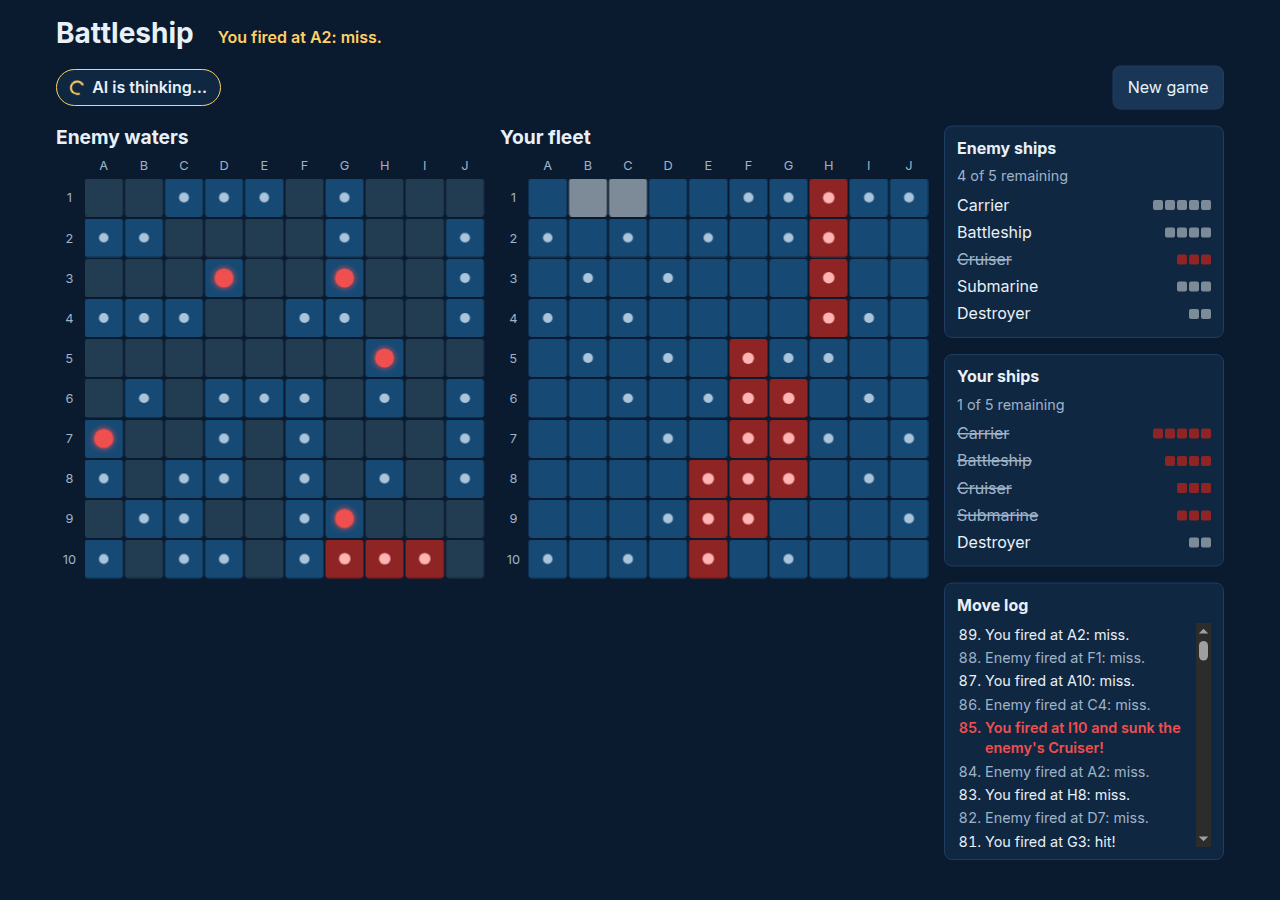
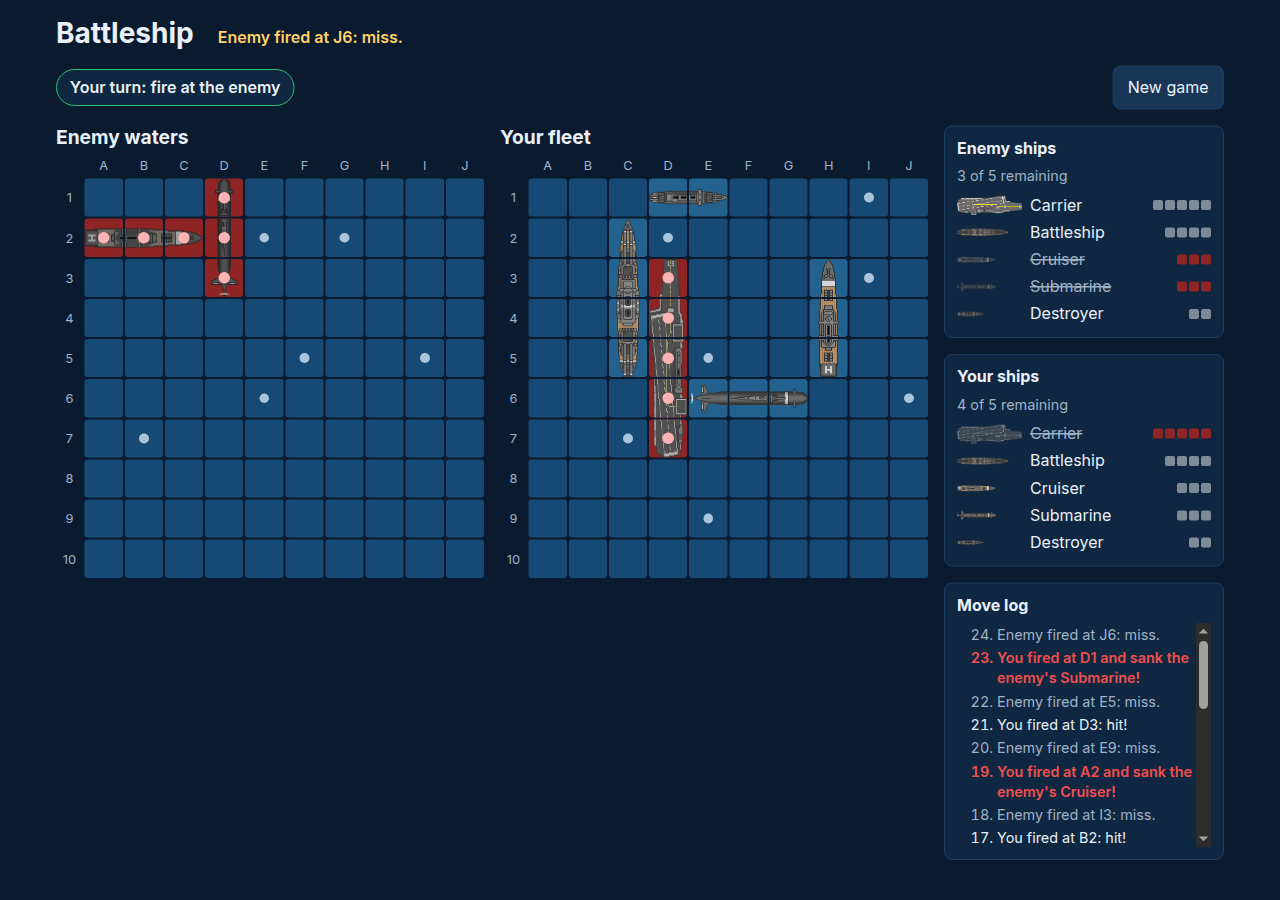
Draw ship images on the boards, tray and status panels
Top-down sprites from the CC0 Sea Warfare set (Lowder2, OpenGameArt),
cropped and rotated per orientation. Enemy ships still appear only once
sunk or at game over.

diff --git a/src/components/shipSprites.ts b/src/components/shipSprites.ts
@@ -1,0 +1,42 @@
+import type { CSSProperties } from 'react';
+import battleshipH from '../assets/ships/battleship-h.png';
+import battleshipV from '../assets/ships/battleship-v.png';
+import carrierH from '../assets/ships/carrier-h.png';
+import carrierV from '../assets/ships/carrier-v.png';
+import cruiserH from '../assets/ships/cruiser-h.png';
+import cruiserV from '../assets/ships/cruiser-v.png';
+import destroyerH from '../assets/ships/destroyer-h.png';
+import destroyerV from '../assets/ships/destroyer-v.png';
+import submarineH from '../assets/ships/submarine-h.png';
+import submarineV from '../assets/ships/submarine-v.png';
+import type { Coord, Ship, ShipType } from '../engine';
+
+interface ShipSprite {
+  readonly horizontal: string;
+  readonly vertical: string;
+  /** Hull width as a fraction of one cell, close to the image's own aspect ratio. */
+  readonly beam: number;
+}
+
+export const SHIP_SPRITES: Readonly<Record<ShipType, ShipSprite>> = {
+  carrier: { horizontal: carrierH, vertical: carrierV, beam: 1 },
+  battleship: { horizontal: battleshipH, vertical: battleshipV, beam: 0.6 },
+  cruiser: { horizontal: cruiserH, vertical: cruiserV, beam: 0.55 },
+  submarine: { horizontal: submarineH, vertical: submarineV, beam: 0.7 },
+  destroyer: { horizontal: destroyerH, vertical: destroyerV, beam: 0.45 },
+};
+
+/** Background for one cell of a ship: the cell shows its slice of the whole hull image. */
+export function shipSpriteStyle(ship: Ship, coord: Coord): CSSProperties {
+  const sprite = SHIP_SPRITES[ship.type];
+  const length = ship.cells.length;
+  const index = ship.cells.findIndex((c) => c.row === coord.row && c.col === coord.col);
+  const along = length > 1 ? (index / (length - 1)) * 100 : 50;
+  const beam = `${sprite.beam * 100}%`;
+  const horizontal = ship.orientation === 'horizontal';
+  return {
+    '--sprite': `url("${horizontal ? sprite.horizontal : sprite.vertical}")`,
+    '--sprite-size': horizontal ? `${length * 100}% ${beam}` : `${beam} ${length * 100}%`,
+    '--sprite-pos': horizontal ? `${along}% 50%` : `50% ${along}%`,
+  } as CSSProperties;
+}

diff --git a/src/components/BattleScreen.tsx b/src/components/BattleScreen.tsx
@@ -4,6 +4,7 @@ import { SHIP_NAMES } from '../game/labels';
 import type { LogEntry } from '../game/state';
 import BoardGrid, { type CellView } from './BoardGrid';
 import MoveLog from './MoveLog';
+import { shipSpriteStyle } from './shipSprites';
 import ShipStatus from './ShipStatus';
 
 interface BattleScreenProps {
@@ -27,22 +28,33 @@ function ownCellView(board: Board, coord: Coord): CellView {
       ? { className: 'water miss', description: 'miss' }
       : { className: 'water', description: 'water' };
   const name = SHIP_NAMES[ship.type];
-  if (isSunk(ship)) return { className: 'ship sunk', description: `${name}, sunk` };
-  if (shot) return { className: 'ship hit', description: `${name}, hit` };
-  return { className: 'ship', description: name };
+  const style = shipSpriteStyle(ship, coord);
+  if (isSunk(ship)) return { className: 'ship sprite sunk', description: `${name}, sunk`, style };
+  if (shot) return { className: 'ship sprite hit', description: `${name}, hit`, style };
+  return { className: 'ship sprite', description: name, style };
 }
 
 function enemyCellView(board: Board, coord: Coord, reveal: boolean): CellView {
   const shot = getCell(board, coord)?.shot ?? false;
   const ship = shipAt(board, coord);
   if (ship && isSunk(ship)) {
-    return { className: 'ship sunk', description: `sunk ${SHIP_NAMES[ship.type]}` };
+    return {
+      className: 'ship sprite sunk',
+      description: `sunk ${SHIP_NAMES[ship.type]}`,
+      style: shipSpriteStyle(ship, coord),
+    };
   }
   if (shot)
     return ship
       ? { className: 'hit', description: 'hit' }
       : { className: 'water miss', description: 'miss' };
-  if (reveal && ship) return { className: 'ship revealed', description: SHIP_NAMES[ship.type] };
+  if (reveal && ship) {
+    return {
+      className: 'ship sprite revealed',
+      description: SHIP_NAMES[ship.type],
+      style: shipSpriteStyle(ship, coord),
+    };
+  }
   return { className: 'water unknown', description: 'not fired' };
 }
 

diff --git a/src/Game.test.tsx b/src/Game.test.tsx
@@ -354,3 +354,42 @@ describe('touch placement', () => {
     expect(placementCell('E1')).toHaveClass('preview-valid');
   });
 });
+
+describe('ship images', () => {
+  const sprite = (cell: HTMLElement) => cell.style.getPropertyValue('--sprite');
+  const spritePos = (cell: HTMLElement) => cell.style.getPropertyValue('--sprite-pos');
+
+  it('draws each placed ship with its own image, sliced per cell', () => {
+    renderGame();
+    fireEvent.click(placementCell('A1')); // Carrier A1–E1, horizontal
+    expect(sprite(placementCell('C1'))).toContain('carrier-h');
+    expect(spritePos(placementCell('C1'))).toBe('50% 50%');
+    expect(placementCell('F1')).not.toHaveClass('sprite');
+
+    fireEvent.click(screen.getByRole('button', { name: 'Rotate' }));
+    fireEvent.click(placementCell('A3')); // Battleship A3–A6, vertical
+    expect(sprite(placementCell('A6'))).toContain('battleship-v');
+    expect(spritePos(placementCell('A6'))).toBe('50% 100%');
+  });
+
+  it('shows an enemy ship image only once that ship is sunk', () => {
+    renderGame();
+    startBattle();
+    fireEvent.click(enemyCell('D2')); // Destroyer D2–E2
+    expect(enemyCell('D2')).not.toHaveClass('sprite');
+    advanceAI();
+    fireEvent.click(enemyCell('E2'));
+    expect(sprite(enemyCell('D2'))).toContain('destroyer-h');
+    expect(enemyCell('E2')).toHaveClass('sprite');
+    expect(enemyCell('A1')).not.toHaveClass('sprite');
+  });
+
+  it('shows the ship image in the tray and the status panels', () => {
+    renderGame();
+    const carrier = screen.getByRole('button', { name: /^Carrier, 5 cells/ });
+    expect(carrier.querySelector('img')?.getAttribute('src')).toContain('carrier-h');
+    startBattle();
+    const ownShips = screen.getByRole('region', { name: 'Your ships' });
+    expect(ownShips.querySelectorAll('img.ship-icon')).toHaveLength(5);
+  });
+});

diff --git a/src/components/PlacementScreen.tsx b/src/components/PlacementScreen.tsx
@@ -14,6 +14,8 @@ import {
 import { SHIP_NAMES } from '../game/labels';
 import type { PlacementState } from '../game/state';
 import BoardGrid, { type CellView } from './BoardGrid';
+import ShipIcon from './ShipIcon';
+import { shipSpriteStyle } from './shipSprites';
 
 const DIFFICULTIES: readonly { value: AIDifficulty; label: string }[] = [
   { value: 'easy', label: 'Easy' },
@@ -85,11 +87,16 @@ export default function PlacementScreen({
 
   const getCellView = (coord: Coord): CellView => {
     const shipType = getCell(board, coord)?.shipType ?? null;
-    const classes = [shipType ? 'ship' : 'water'];
+    const ship = shipType ? board.ships.find((s) => s.type === shipType) : undefined;
+    const classes = [ship ? 'ship sprite' : 'water'];
     if (preview?.cells.has(`${coord.row},${coord.col}`)) {
       classes.push(preview.valid ? 'preview-valid' : 'preview-invalid');
     }
-    return { className: classes.join(' '), description: shipType ? SHIP_NAMES[shipType] : 'empty' };
+    return {
+      className: classes.join(' '),
+      description: shipType ? SHIP_NAMES[shipType] : 'empty',
+      style: ship ? shipSpriteStyle(ship, coord) : undefined,
+    };
   };
 
   return (
@@ -119,11 +126,7 @@ export default function PlacementScreen({
                     onClick={() => onSelectShip(type)}
                   >
                     <span className="tray-name">{SHIP_NAMES[type]}</span>
-                    <span className="pips" aria-hidden="true">
-                      {Array.from({ length: SHIP_SIZES[type] }, (_, i) => (
-                        <span key={i} className="pip" />
-                      ))}
-                    </span>
+                    <ShipIcon type={type} />
                   </button>
                 </li>
               );

diff --git a/src/index.css b/src/index.css
@@ -7,6 +7,7 @@
   --water: #164a75;
   --water-hover: #1d5c90;
   --ship: #7d8b99;
+  --ship-water: #23628f;
   --hit: #ef4f4f;
   --sunk: #8e2424;
   --miss: #cfe3f5;
@@ -223,6 +224,23 @@ button.cell.sunk:hover {
   background: var(--sunk);
 }
 
+.cell.ship.sprite:not(.sunk, .preview-valid, .preview-invalid),
+button.cell.ship.sprite:not(.sunk, .preview-valid, .preview-invalid):hover {
+  background: var(--ship-water);
+}
+
+.cell.sprite::before {
+  content: '';
+  position: absolute;
+  inset: 0;
+  background: var(--sprite) var(--sprite-pos) / var(--sprite-size) no-repeat;
+  pointer-events: none;
+}
+
+.cell.sunk.sprite::before {
+  filter: grayscale(0.7) brightness(0.75);
+}
+
 .cell.revealed {
   background: var(--ship);
   opacity: 0.6;
@@ -316,6 +334,12 @@ button.cell[aria-disabled='true'] {
 .tray-ship.placed .tray-name::after {
   content: ' ✓';
   color: var(--valid);
+}
+
+.ship-icon {
+  width: calc(var(--len) * 13px);
+  height: auto;
+  flex-shrink: 0;
 }
 
 .pips {
@@ -457,8 +481,8 @@ button.cell[aria-disabled='true'] {
 }
 
 .ship-status li {
-  display: flex;
-  justify-content: space-between;
+  display: grid;
+  grid-template-columns: 65px 1fr auto;
   align-items: center;
   gap: 0.5rem;
 }
@@ -466,6 +490,11 @@ button.cell[aria-disabled='true'] {
 .ship-status li.sunk .status-name {
   text-decoration: line-through;
   color: var(--muted);
+}
+
+.ship-status li.sunk .ship-icon {
+  filter: grayscale(1);
+  opacity: 0.5;
 }
 
 .ship-status li.sunk .pip {

diff --git a/src/components/BoardGrid.tsx b/src/components/BoardGrid.tsx
@@ -1,10 +1,11 @@
-import { useRef, useState, type FocusEvent, type KeyboardEvent } from 'react';
+import { useRef, useState, type CSSProperties, type FocusEvent, type KeyboardEvent } from 'react';
 import type { Board, Coord } from '../engine';
 import { COLUMN_LABELS, coordLabel } from '../game/labels';
 
 export interface CellView {
   readonly className: string;
   readonly description: string;
+  readonly style?: CSSProperties;
 }
 
 interface BoardGridProps {
@@ -112,6 +113,7 @@ export default function BoardGrid({
                   role="gridcell"
                   aria-label={name}
                   className={`cell ${view.className}`}
+                  style={view.style}
                 />
               );
             }
@@ -125,6 +127,7 @@ export default function BoardGrid({
                     cellRefs.current[row * size + col] = el;
                   }}
                   className={`cell ${view.className}`}
+                  style={view.style}
                   aria-label={name}
                   aria-disabled={cellDisabled || undefined}
                   tabIndex={isActive ? 0 : -1}

diff --git a/src/components/ShipStatus.tsx b/src/components/ShipStatus.tsx
@@ -1,6 +1,7 @@
 import { useId } from 'react';
 import { FLEET, isSunk, type Board } from '../engine';
 import { SHIP_NAMES } from '../game/labels';
+import ShipIcon from './ShipIcon';
 
 interface ShipStatusProps {
   readonly title: string;
@@ -27,6 +28,7 @@ export default function ShipStatus({ title, board, showDamage }: ShipStatusProps
           const sunk = isSunk(ship);
           return (
             <li key={ship.type} className={sunk ? 'sunk' : ''}>
+              <ShipIcon type={ship.type} />
               <span className="status-name">{SHIP_NAMES[ship.type]}</span>
               <span className="pips" aria-hidden="true">
                 {ship.hits.map((hit, i) => (

diff --git a/src/components/ShipIcon.tsx b/src/components/ShipIcon.tsx
@@ -1,0 +1,13 @@
+import { SHIP_SIZES, type ShipType } from '../engine';
+import { SHIP_SPRITES } from './shipSprites';
+
+export default function ShipIcon({ type }: { readonly type: ShipType }) {
+  return (
+    <img
+      className="ship-icon"
+      src={SHIP_SPRITES[type].horizontal}
+      alt=""
+      style={{ ['--len' as string]: SHIP_SIZES[type] }}
+    />
+  );
+}

diff --git a/README.md b/README.md
@@ -95,6 +95,10 @@ GitHub Pages serves the site from `/battleship/`, so Vite's `base` defaults to `
 [`vite.config.ts`](vite.config.ts). A wrong base path is the usual cause of a blank page. To deploy to a
 host that serves from the root, such as Vercel or Netlify, build with `BASE_PATH=/ npm run build`.
 
+## Credits
+
+Ship images come from the [Sea Warfare set](https://opengameart.org/content/sea-warfare-set-ships-and-more) by Lowder2 on OpenGameArt, released under [CC0](https://creativecommons.org/publicdomain/zero/1.0/) (public domain). They are cropped and rotated copies in `src/assets/ships/`.
+
 ## License
 
 [MIT](LICENSE) © Felipe Pojo
